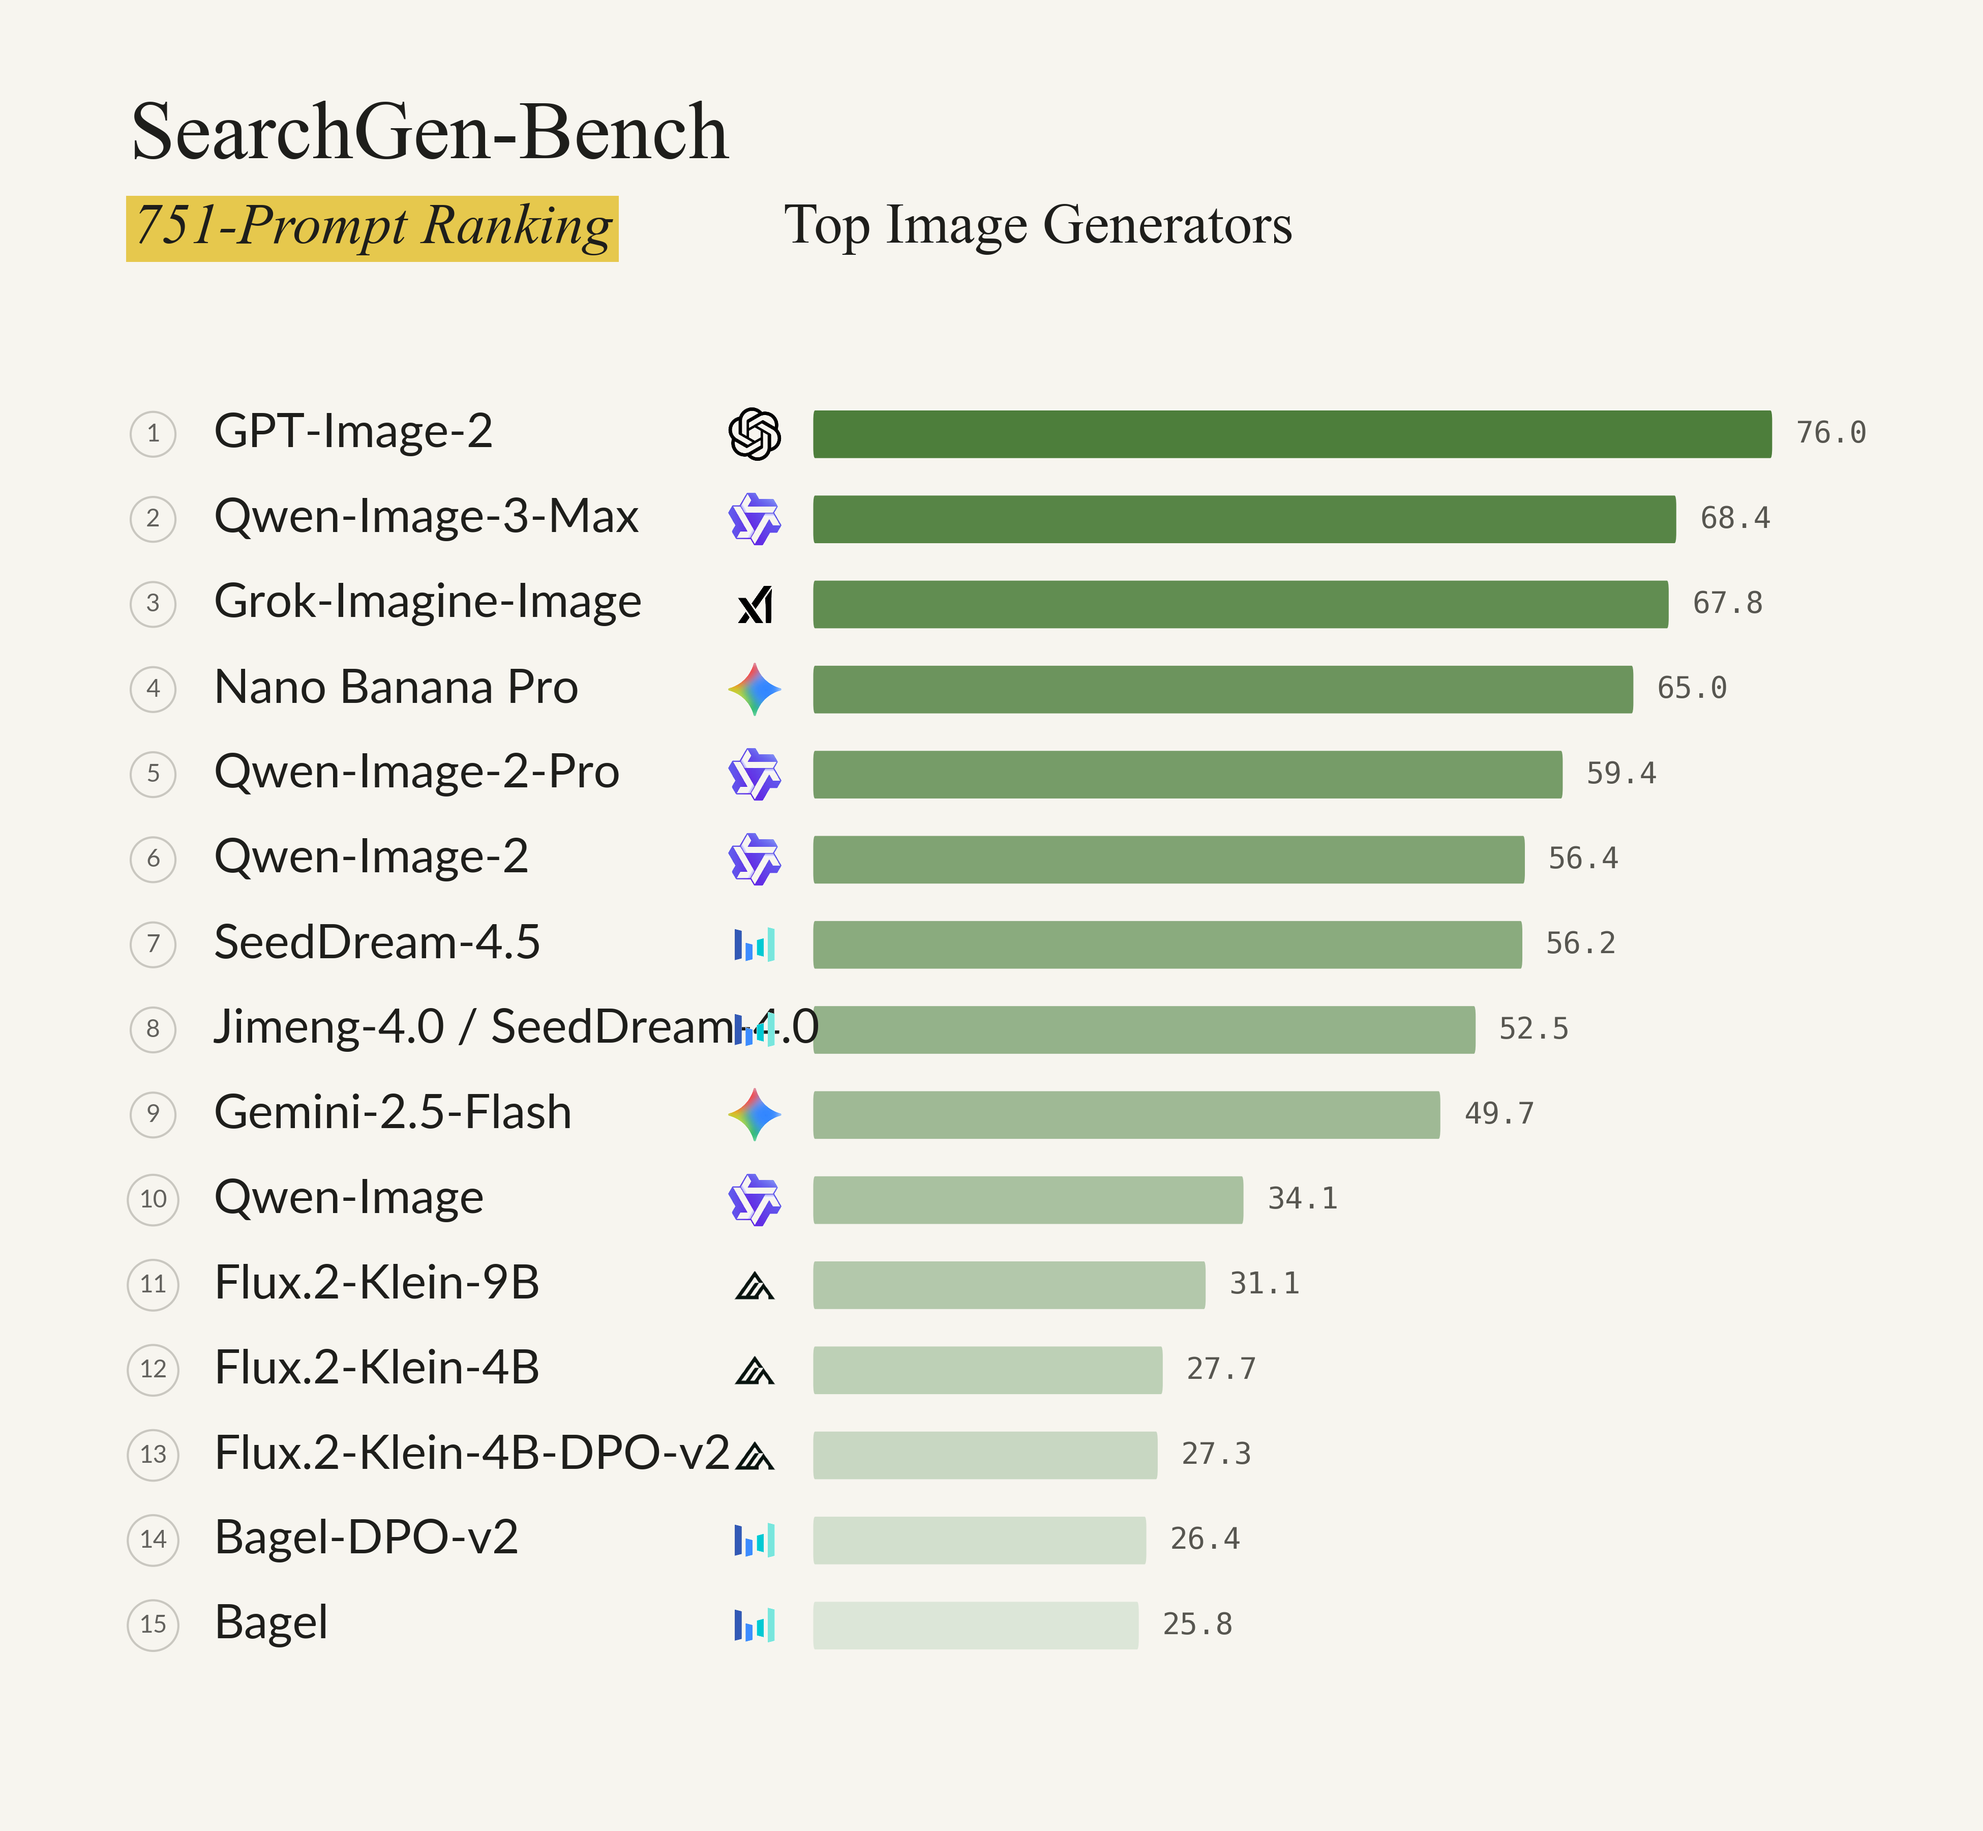
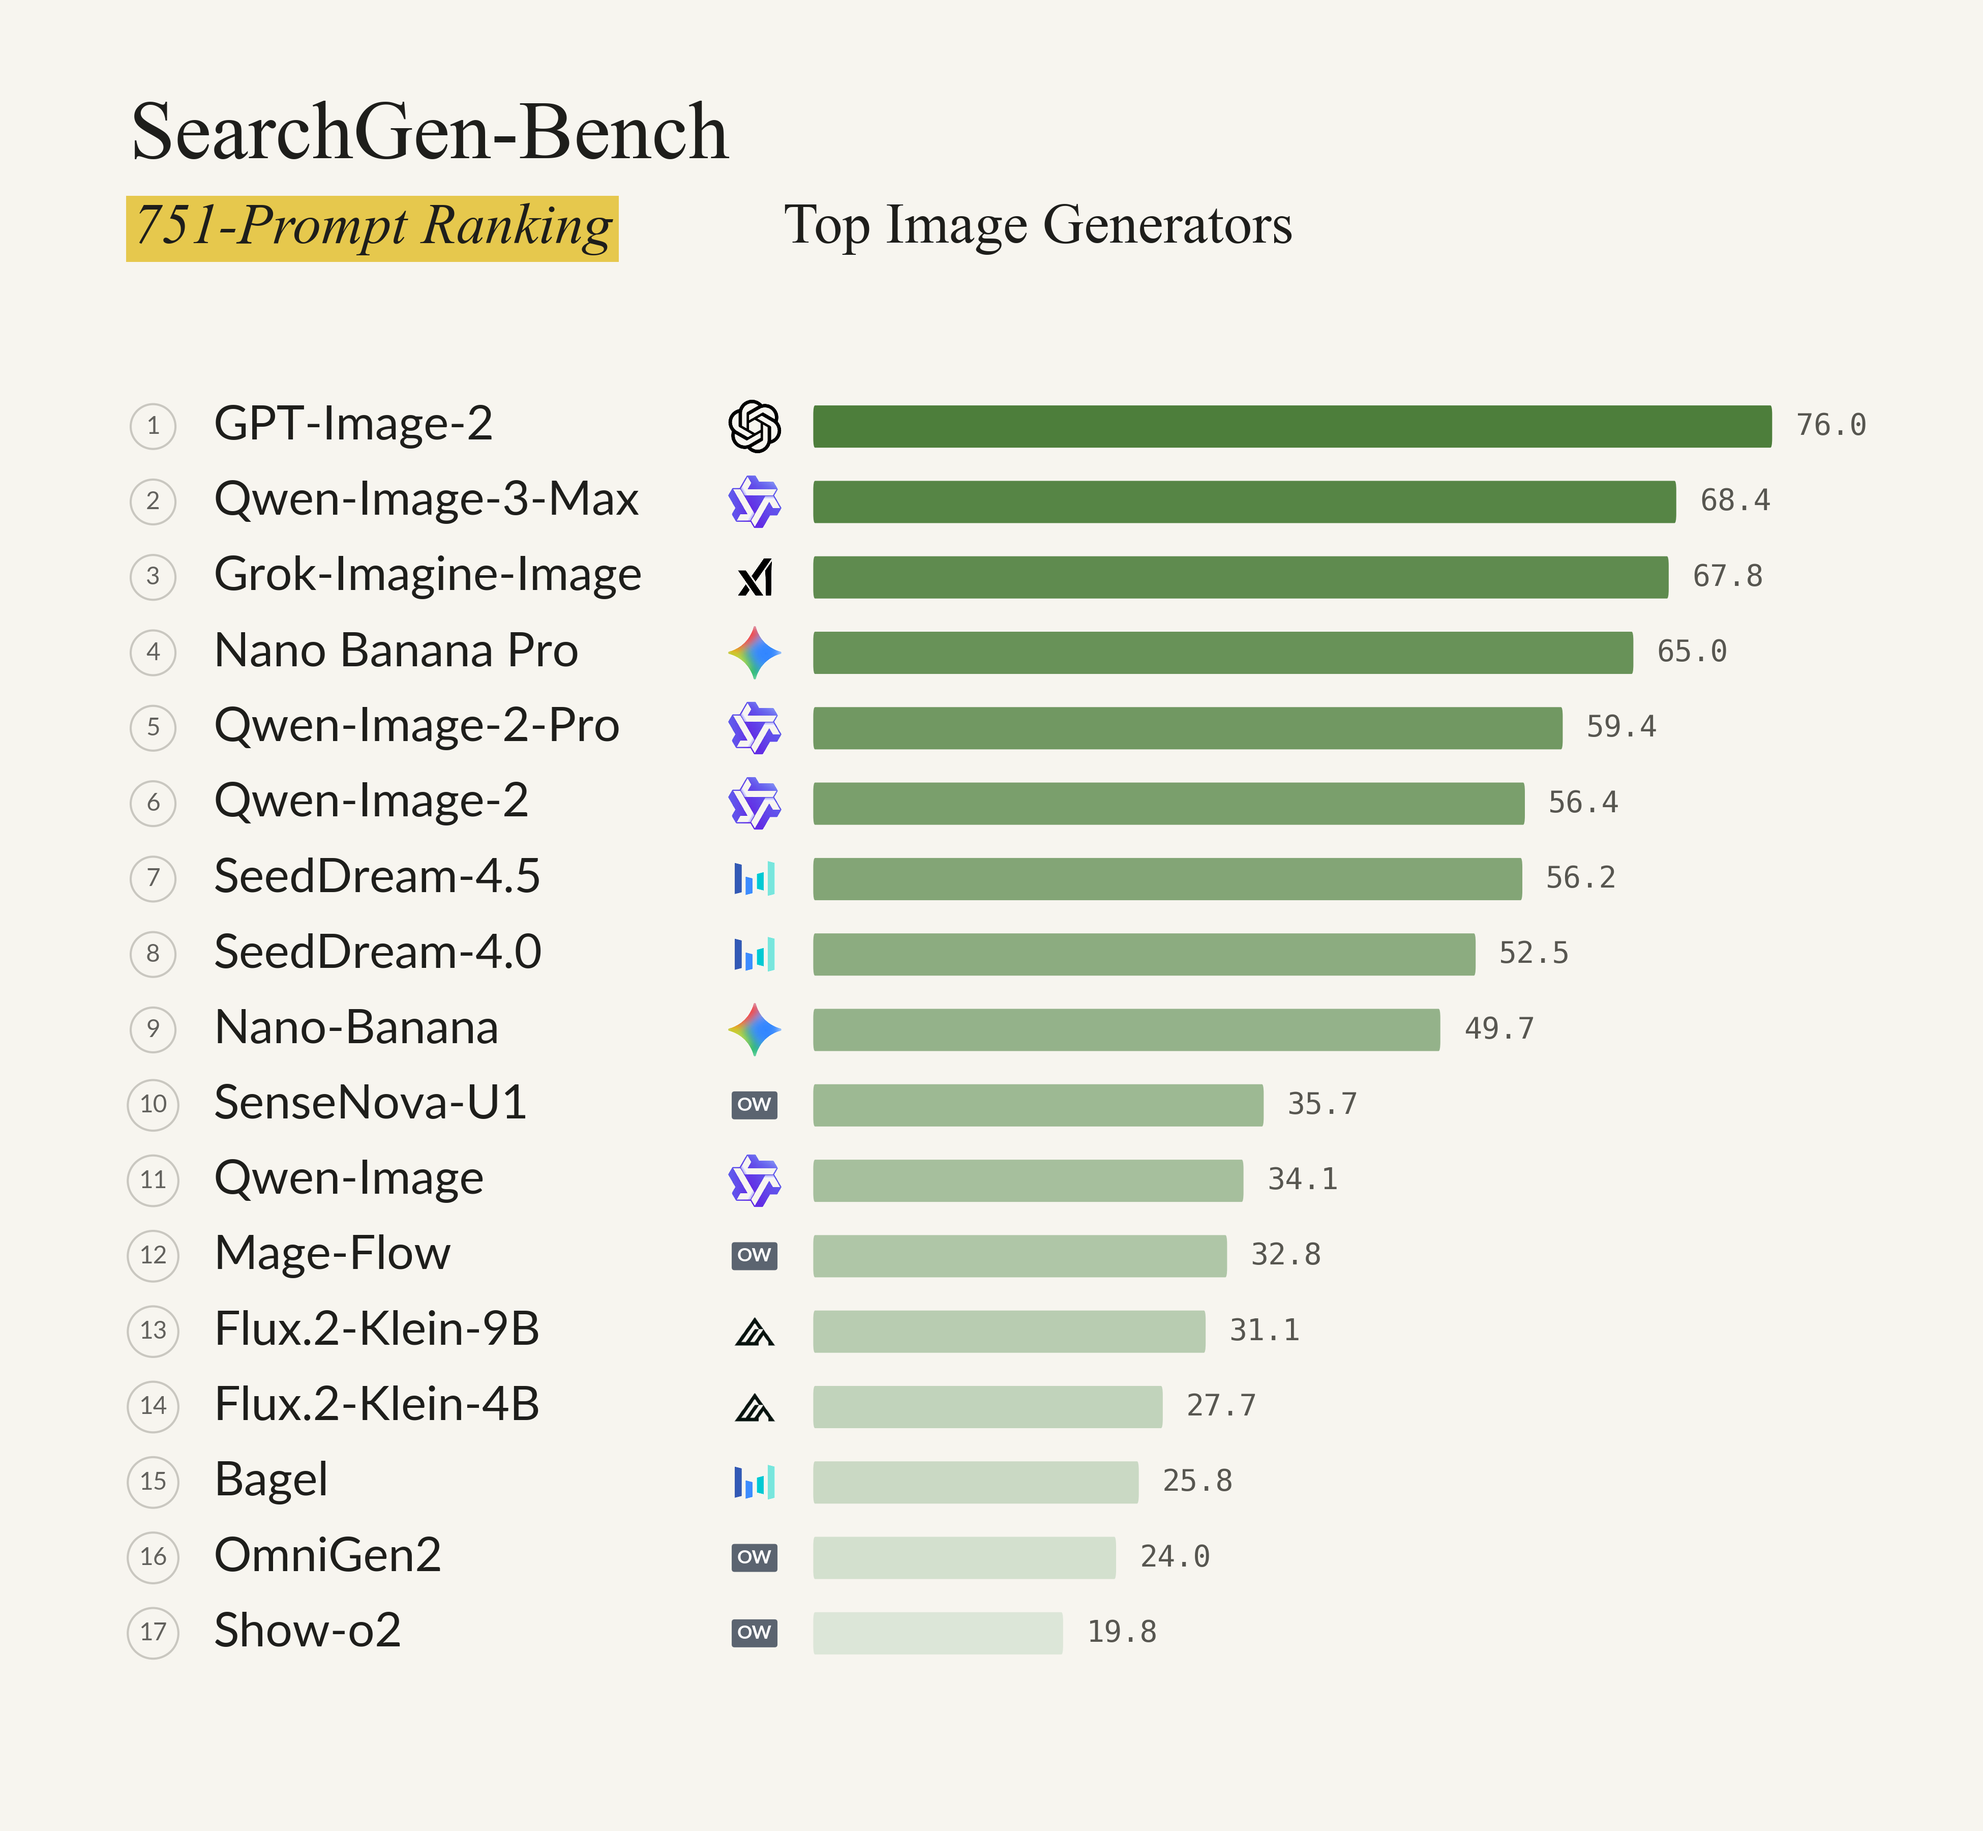
Publish finalized 17-model benchmark results

Changed region(s): [[0.0621, 0.2178, 0.9308, 0.9022]]

diff --git a/README.md b/README.md
@@ -37,7 +37,7 @@ Haozhe Wang<sup>1</sup> · Weijia Feng<sup>3</sup> · Jinpeng Yu<sup>3</sup> · 
 
 ## TL;DR — Teach What You Can, Search the Rest
 
-Modern image generators render gorgeously and lie fluently. Ask for the 2025 Osaka Expo mascot and you get a confident, wrong invention. The failure isn't the pixels—it's the **knowledge**. On **SearchGen-Bench**, open generators score just **22.2–28.6 out of 100** on search-intensive prompts—up to a 41.4-point collapse.
+Modern image generators render gorgeously and lie fluently. Ask for the 2025 Osaka Expo mascot and you get a confident, wrong invention. The failure isn't the pixels—it's the **knowledge**. On **SearchGen-Bench**, frontier open generators score just **21–28 out of 100** on search-intensive prompts—up to a roughly 40-point collapse that standard benchmarks never register.
 
 Search is the obvious fix, the way an illustrator consults references. But naive search backfires: it corrupts prompts the generator already handled. The real problem is a **knowledge boundary**—the line between what a generator can learn and what it must look up. That line is generator-specific, it moves during training, and it cannot be hand-drawn. It has to be discovered.
 
@@ -59,11 +59,11 @@ Worse, generators have no way to flag their own ignorance. They are trained to a
 
 *Ask for a specific person, a labeled scientific diagram, or live data and today's best generators confidently fabricate. These representative cases span SearchGen's 12 failure categories.*
 
-## Finding 1 — A 41-Point Gap That No Benchmark Shows
+## Finding 1 — A 40-Point Gap That No Benchmark Shows
 
-> **Generators diverge by up to 41.4 points when search-intensive world knowledge is required.**
+> **Generators that score comparably on standard prompts diverge by nearly 40 points when search-intensive world knowledge is required.**
 
-Across 15 generators, NoSearch Overall9 scores span **49.1–78.9**. On prompts needing external knowledge, open generators fall to **22.2–28.6**, while the strongest commercial systems remain above 60.
+On prompts that need only what a model already learned, open and commercial generators land in the same band (**67–75 out of 100**). Turn to prompts that need live world knowledge, and the field splits: open generators crater to **21–28**, while commercial systems with built-in search barely move. Existing benchmarks test rendering inside known concepts, so they never see this gap at all.
 
 To surface it, we built **SearchGen-Bench**: 751 test prompts scored with separate dimensions for **knowledge** and **rendering**. The split is the whole point. When a generator scores poorly on knowledge checklists but remains strong on image quality, the diagnosis is unambiguous—it can draw; it just does not know.
 
@@ -71,10 +71,10 @@ To surface it, we built **SearchGen-Bench**: 751 test prompts scored with separa
   <img src="assets/readme/b1.png" width="900" alt="SearchGen-Bench results across no-search and search-intensive prompts">
 </p>
 
-***SearchGen-Bench results.** Finalized 3d5 Overall9 scores on 100 NoSearch and 651 Search-Intensive prompts. The largest gap is 41.4 points.*
+***SearchGen-Bench results.** Generators score well on prompts they can answer from memory (gray). On prompts requiring external knowledge (orange), every open generator collapses—up to a 40-point drop—while commercial systems with built-in search hold. The bottleneck is missing knowledge, not rendering skill.*
 
 <p align="center">
-  <img src="assets/readme/searchgenbench_arena_style.png" width="760" alt="Overall9 SearchGen-Bench ranking of fifteen image generators on the full 751-prompt evaluation">
+  <img src="assets/readme/searchgenbench_arena_style.png" width="760" alt="Overall9 SearchGen-Bench ranking of seventeen image generators on the full 751-prompt evaluation">
 </p>
 
 ***Overall SearchGen-Bench ranking.** GPT-Image-2 leads, followed by Qwen-Image-3-Max and Grok-Imagine-Image. Scores use Overall9 from the finalized 3d5 evaluator.*
@@ -91,15 +91,17 @@ Scores are reported on a 0–100 scale; higher is better. **Checklist**, **Rubri
 | NoSearch | Commercial | Nano Banana Pro | 73.3 | 78.4 | 76.3 | 70.2 | 70.7 | 85.6 | 65.2 | 80.3 | 77.1 | 63.0 |
 | NoSearch | Commercial | Qwen-Image-2-Pro | 71.2 | 76.8 | 74.1 | 67.3 | 70.5 | 77.8 | 61.8 | 78.3 | 75.3 | 61.2 |
 | NoSearch | Commercial | Qwen-Image-2 | 71.1 | 76.2 | 73.1 | 67.5 | 70.2 | 79.5 | 63.8 | 79.2 | 74.2 | 60.3 |
-| NoSearch | Commercial | Jimeng-4.0 / SeedDream-4.0 | 70.7 | 76.4 | 73.3 | 65.8 | 69.0 | 76.0 | 61.7 | 80.8 | 75.5 | 58.5 |
+| NoSearch | Commercial | SeedDream-4.0 | 70.7 | 76.4 | 73.3 | 65.8 | 69.0 | 76.0 | 61.7 | 80.8 | 75.5 | 58.5 |
 | NoSearch | Open | Qwen-Image | 70.0 | 74.9 | 72.0 | 65.5 | 69.2 | 61.1 | 61.7 | 77.0 | 78.6 | 60.1 |
 | NoSearch | Commercial | SeedDream-4.5 | 69.3 | 76.2 | 72.8 | 65.5 | 67.3 | 74.0 | 59.0 | 76.8 | 73.4 | 59.6 |
-| NoSearch | Commercial | Gemini-2.5-Flash | 66.3 | 70.8 | 68.5 | 61.8 | 67.7 | 49.0 | 59.7 | 77.5 | 70.5 | 56.2 |
+| NoSearch | Commercial | Nano-Banana | 66.3 | 70.8 | 68.5 | 61.8 | 67.7 | 49.0 | 59.7 | 77.5 | 70.5 | 56.2 |
+| NoSearch | Open | SenseNova-U1 | 62.8 | 68.1 | 65.2 | 58.5 | 64.3 | 58.3 | 56.2 | 72.2 | 65.1 | 51.1 |
+| NoSearch | Open | Mage-Flow | 61.2 | 64.2 | 61.8 | 54.5 | 64.7 | 51.2 | 56.3 | 71.8 | 67.4 | 47.1 |
 | NoSearch | Open | Flux.2-Klein-9B | 58.5 | 63.7 | 60.7 | 49.5 | 63.2 | 30.0 | 53.5 | 71.0 | 67.0 | 41.1 |
 | NoSearch | Open | Flux.2-Klein-4B | 52.3 | 55.8 | 52.6 | 42.3 | 59.7 | 16.1 | 49.8 | 67.7 | 60.1 | 35.3 |
-| NoSearch | Open | Flux.2-Klein-4B-DPO-v2 | 50.4 | 52.8 | 50.6 | 38.8 | 59.7 | 9.3 | 48.3 | 64.3 | 59.9 | 32.6 |
-| NoSearch | Open | Bagel-DPO-v2 | 50.0 | 52.1 | 49.8 | 37.8 | 57.8 | 19.9 | 48.8 | 63.0 | 61.2 | 32.1 |
 | NoSearch | Open | Bagel | 49.1 | 51.5 | 49.2 | 37.7 | 56.2 | 16.1 | 48.8 | 62.8 | 58.5 | 32.1 |
+| NoSearch | Open | OmniGen2 | 47.4 | 49.1 | 46.1 | 33.5 | 56.4 | 7.8 | 47.3 | 61.4 | 60.3 | 30.6 |
+| NoSearch | Open | Show-o2 | 34.4 | 32.7 | 30.9 | 21.0 | 47.2 | 2.4 | 38.0 | 49.8 | 40.9 | 19.9 |
 | SearchIntensive | Commercial | GPT-Image-2 | 75.5 | 74.4 | 73.7 | 72.2 | 77.4 | 77.7 | 68.9 | 83.9 | 84.9 | 70.4 |
 | SearchIntensive | Commercial | Qwen-Image-3-Max | 67.6 | 65.8 | 65.3 | 62.8 | 71.1 | 67.9 | 62.3 | 77.0 | 78.6 | 59.6 |
 | SearchIntensive | Commercial | Grok-Imagine-Image | 66.7 | 65.9 | 64.6 | 62.8 | 69.5 | 65.7 | 61.7 | 75.6 | 77.8 | 59.7 |
@@ -107,14 +109,16 @@ Scores are reported on a 0–100 scale; higher is better. **Checklist**, **Rubri
 | SearchIntensive | Commercial | Qwen-Image-2-Pro | 57.5 | 53.9 | 53.1 | 48.3 | 65.3 | 55.1 | 57.3 | 68.9 | 72.8 | 46.8 |
 | SearchIntensive | Commercial | Qwen-Image-2 | 54.1 | 49.9 | 49.6 | 44.1 | 62.5 | 50.1 | 54.3 | 66.2 | 71.4 | 42.0 |
 | SearchIntensive | Commercial | SeedDream-4.5 | 54.1 | 51.7 | 50.8 | 45.2 | 61.8 | 50.4 | 50.8 | 65.9 | 69.3 | 42.1 |
-| SearchIntensive | Commercial | Jimeng-4.0 / SeedDream-4.0 | 49.6 | 45.6 | 45.1 | 39.3 | 58.8 | 37.2 | 50.9 | 62.5 | 68.0 | 36.8 |
-| SearchIntensive | Commercial | Gemini-2.5-Flash | 47.1 | 43.0 | 42.3 | 36.1 | 56.9 | 31.2 | 48.9 | 60.5 | 67.0 | 35.9 |
+| SearchIntensive | Commercial | SeedDream-4.0 | 49.6 | 45.6 | 45.1 | 39.3 | 58.8 | 37.2 | 50.9 | 62.5 | 68.0 | 36.8 |
+| SearchIntensive | Commercial | Nano-Banana | 47.1 | 43.0 | 42.3 | 36.1 | 56.9 | 31.2 | 48.9 | 60.5 | 67.0 | 35.9 |
+| SearchIntensive | Open | SenseNova-U1 | 31.6 | 29.3 | 27.6 | 21.6 | 39.5 | 15.8 | 32.2 | 42.5 | 48.4 | 21.0 |
 | SearchIntensive | Open | Qwen-Image | 28.6 | 25.0 | 23.8 | 17.4 | 37.9 | 9.2 | 29.9 | 41.0 | 45.5 | 17.7 |
+| SearchIntensive | Open | Mage-Flow | 28.4 | 23.0 | 21.7 | 15.7 | 38.7 | 9.7 | 35.0 | 40.0 | 50.2 | 16.2 |
 | SearchIntensive | Open | Flux.2-Klein-9B | 26.9 | 23.8 | 22.4 | 15.1 | 36.1 | 5.8 | 29.9 | 38.3 | 47.7 | 16.7 |
 | SearchIntensive | Open | Flux.2-Klein-4B | 23.9 | 20.1 | 18.6 | 11.5 | 33.0 | 3.4 | 28.1 | 35.7 | 44.8 | 12.7 |
-| SearchIntensive | Open | Flux.2-Klein-4B-DPO-v2 | 23.8 | 18.3 | 17.3 | 10.7 | 34.0 | 3.2 | 29.8 | 36.2 | 47.1 | 10.9 |
-| SearchIntensive | Open | Bagel-DPO-v2 | 22.8 | 17.3 | 16.6 | 10.6 | 32.9 | 2.4 | 28.1 | 35.1 | 40.5 | 10.7 |
 | SearchIntensive | Open | Bagel | 22.2 | 18.7 | 17.7 | 12.4 | 30.4 | 2.2 | 25.0 | 32.4 | 38.1 | 14.2 |
+| SearchIntensive | Open | OmniGen2 | 20.4 | 16.4 | 14.9 | 8.8 | 29.2 | 2.5 | 24.3 | 31.4 | 40.8 | 9.5 |
+| SearchIntensive | Open | Show-o2 | 17.5 | 8.1 | 8.0 | 4.2 | 30.2 | 0.7 | 26.5 | 34.3 | 31.7 | 3.4 |
 
 *NoSearch contains 100 prompts; Search-Intensive is the 651-row union of VisualSearch and TextualSearch. Scores use present-only aggregation.*
 
